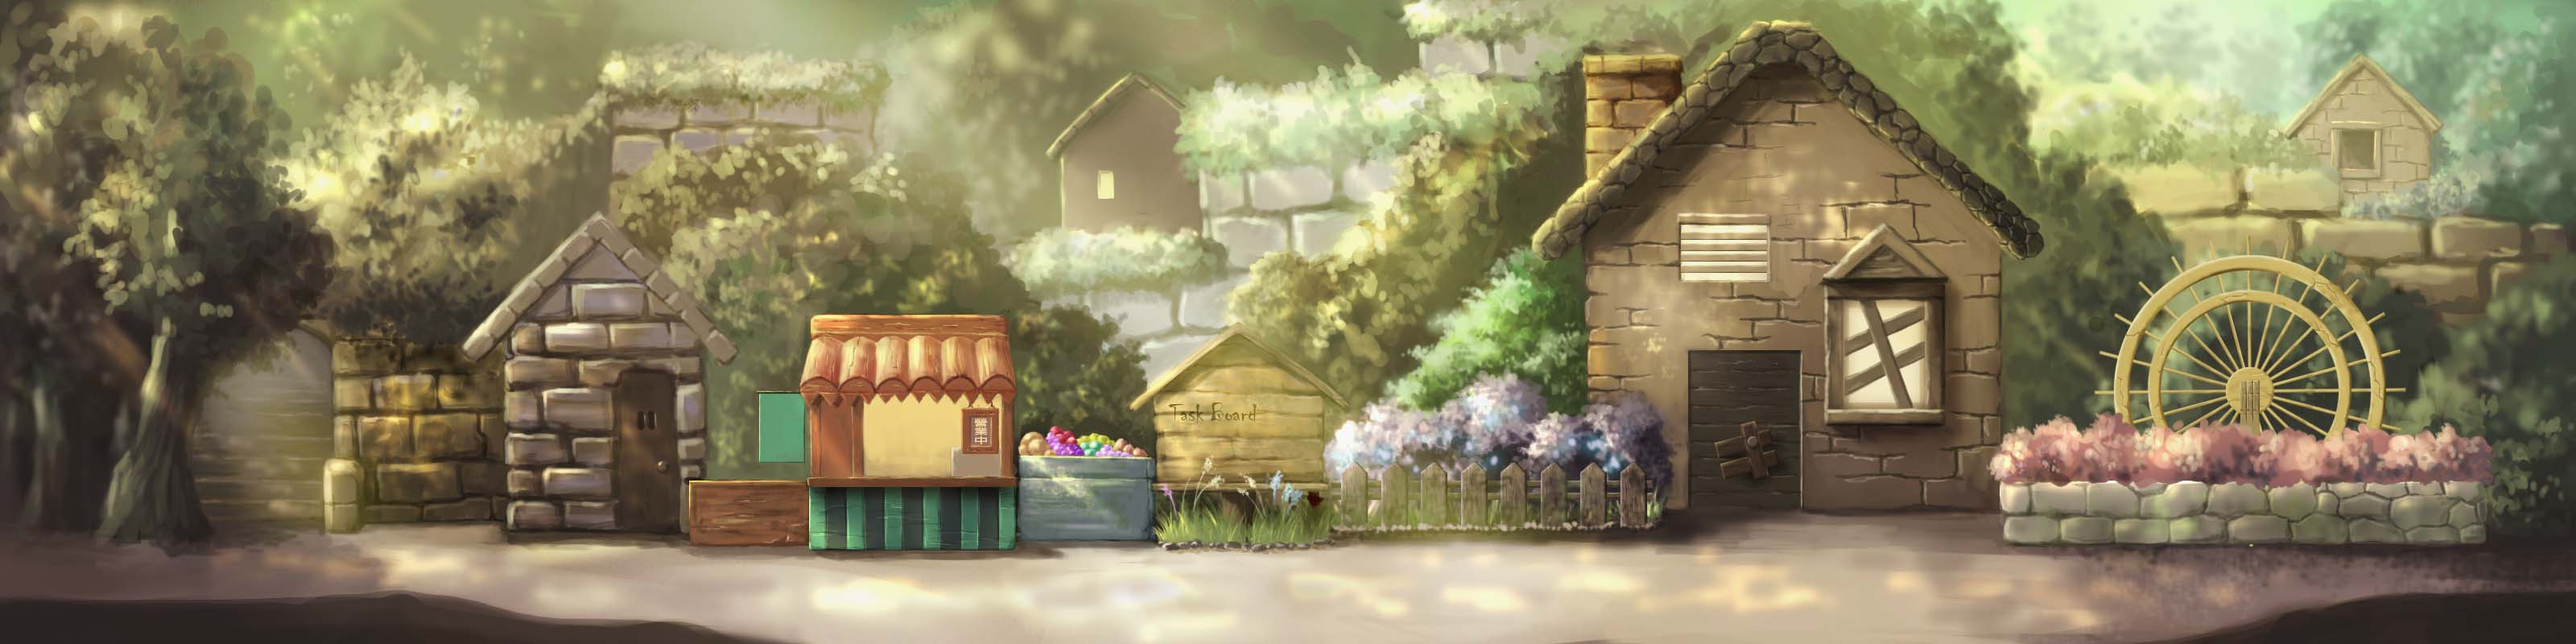
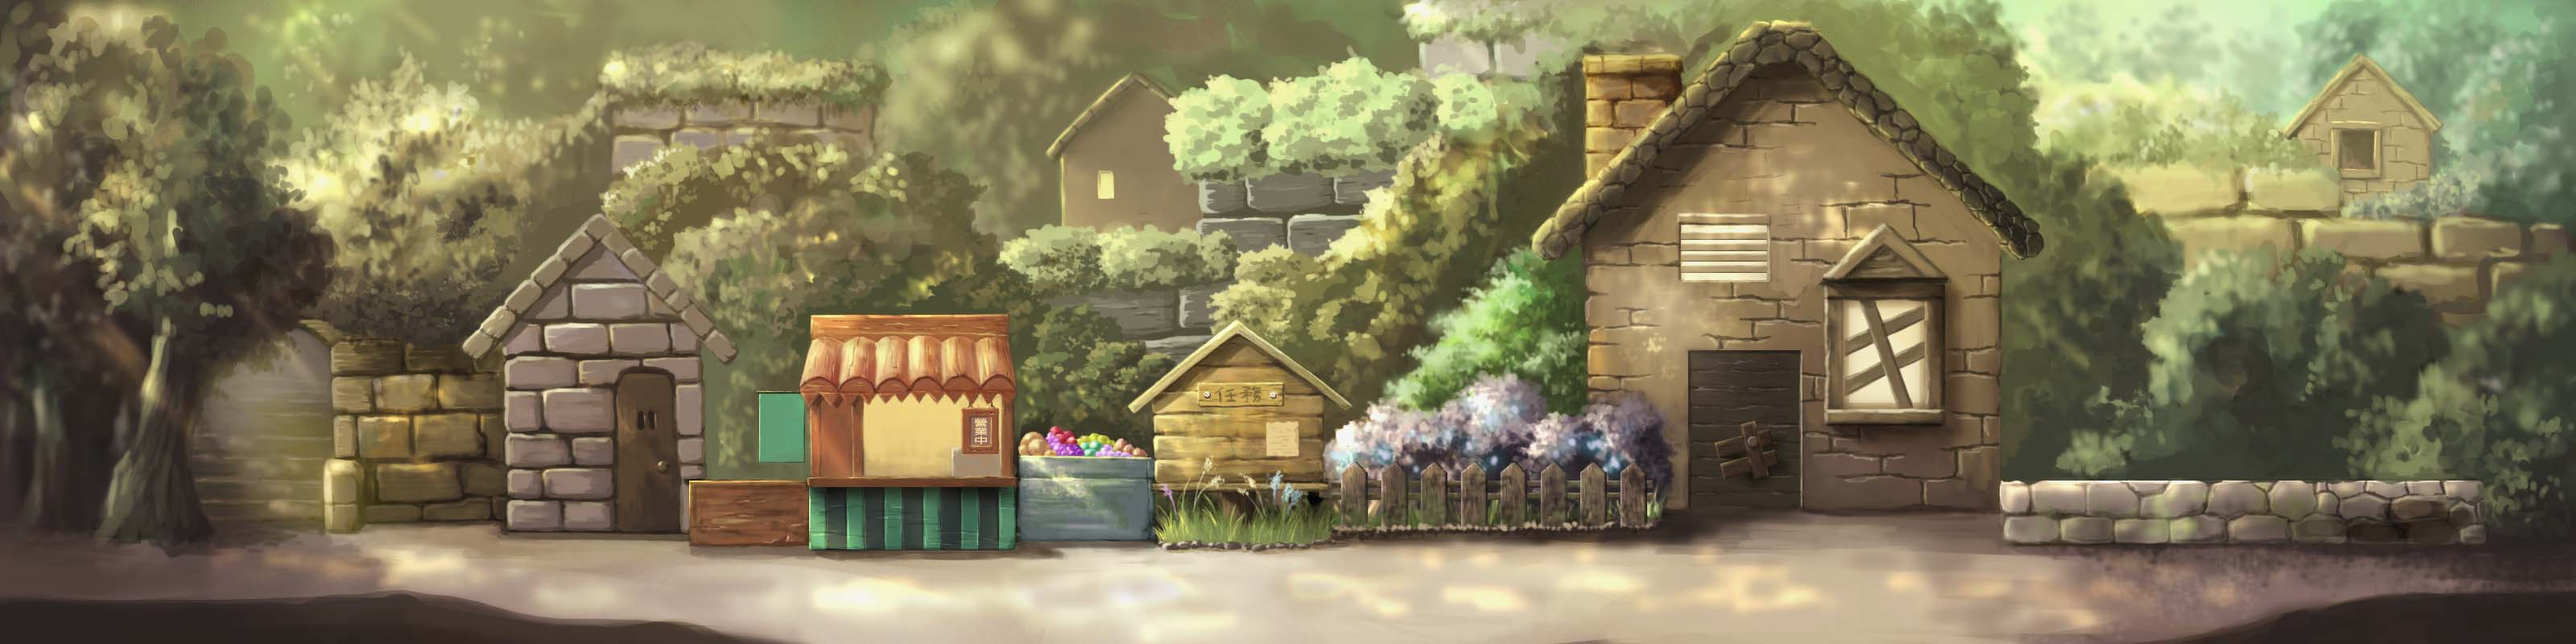
add village task board light and fishing bar speed slower

diff --git a/public/javascript/math_game/js/HomePage/Village.js b/public/javascript/math_game/js/HomePage/Village.js
@@ -4,6 +4,7 @@ import ArrowKey from './HomeObject/ArrowKey';
 import TaskBoard from './HomeObject/taskBoard';
 import ArrowSheet from './HomeObject/arrow';
 import FoxVendor from './HomeObject/vendor';
+import { tweenShining } from '../Game/utils';
 import { config } from '../GameConfig';
 
 export default class extends Phaser.State {
@@ -31,6 +32,15 @@ export default class extends Phaser.State {
     this.ArrowSheet = new ArrowSheet(this, 735, -40);
     this.FoxVendor = new FoxVendor(this);
     this.Fox = new Fox(this.game, this.foxPos[0], this.foxPos[1]);
+    this.TaskBoardLight = this.add.sprite(0, 0, 'TaskBoardLight', 'TaskBoardLight.png');
+    tweenShining(this, this.TaskBoardLight);
+    this.TaskBoardLight.tween.resume();
+    this.TaskBoardLight.alpha = 1;
+    // this.circleHint = this.add.graphics();
+    // this.circleHint.beginFill(0xffffff);
+    // this.circleHint.drawCircle(1535, 355, 50);
+    // this.circleHint.anchor.setTo(0.5);
+    // this.add.tween(this.circleHint).to({ alpha: '-0.8' }, 500, 'Quad.easeInOut', true, 0, false, false).loop(true);
   }
   controller() {
     this.Arrowkey = new ArrowKey(this.game, this.Fox);

diff --git a/public/javascript/math_game/js/Game/GameLoading.js b/public/javascript/math_game/js/Game/GameLoading.js
@@ -40,7 +40,7 @@ export default class extends Phaser.State {
   }
   loadHomePage(imagePath, audioPath) {
     this.load
-      .image('HomePageBG', imagePath + 'HomePageBG.jpg')
+      .image('HomePageBG', imagePath + 'BG.jpg')
       .image('FrontBG', imagePath + 'FrontBG.png')
       .image('JunyiIconBtn', imagePath + 'JunyiIconBtn.png')
       .image('BackPackIcon', imagePath + 'BackPackIcon.png')
@@ -54,6 +54,7 @@ export default class extends Phaser.State {
   loadVillage(imagePath) {
     this.load
       .atlas('FoxVendor', imagePath + 'FoxVendor.png', imagePath + 'FoxVendor.json')
+      .atlas('TaskBoardLight', imagePath + 'TaskBoardLight.png', imagePath + 'TaskBoardLight.json')      
       .image('VillageBG', imagePath + 'BG.jpg');
   }
   loadLevelMap() {

diff --git a/public/javascript/math_game/js/FishingPage/FishingPageObject/scoreBar.js b/public/javascript/math_game/js/FishingPage/FishingPageObject/scoreBar.js
@@ -52,7 +52,7 @@ export default class {
     this.Bar.tween.pause();
   }
   BarInc(combo) {
-    let amount = 10 * (1 + combo * 0.25);
+    let amount = 10 * (1 + combo * 0.5);
     this.game.add.tween(this.Bar).to({ y: `-${amount}` }, 200, 'Linear', true);
     this.game.add.tween(this.RedBar).to({ y: `-${amount}` }, 200, 'Linear', true);
 
@@ -76,8 +76,8 @@ export default class {
   }
   updateBar(game) {
     if (this.Bar.y < 400) {
-      this.Bar.y += 0.5;
-      this.RedBar.y += 0.5;
+      this.Bar.y += 0.4;
+      this.RedBar.y += 0.4;
     } else game.fail();
   }
 }

diff --git a/public/javascript/math_game/js/FishingPage/FishingPage.js b/public/javascript/math_game/js/FishingPage/FishingPage.js
@@ -131,7 +131,7 @@ export default class extends Phaser.State {
     this.comboText.alpha = 1;
     this.multiplyText.alpha = 1;
     this.comboText.setText(`Combo ${this.combo}`);
-    this.multiplyText.setText(`+${25 * this.combo}%`);
+    this.multiplyText.setText(`+${50 * this.combo}%`);
     this.add.tween(this.comboText).to({ alpha: 0 }, 2000, 'Quad.easeIn', true);
     this.add.tween(this.multiplyText).to({ alpha: 0 }, 2000, 'Quad.easeIn', true);
   }
